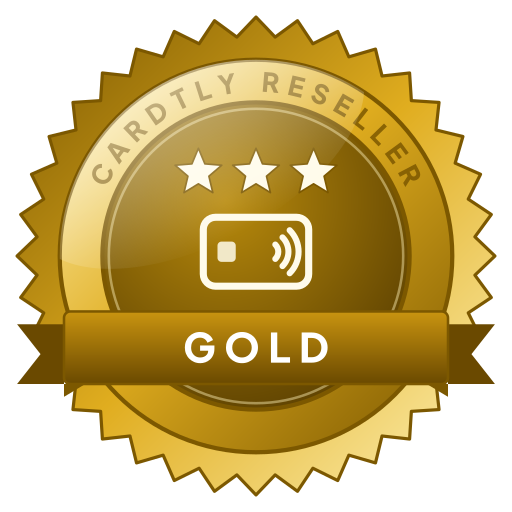
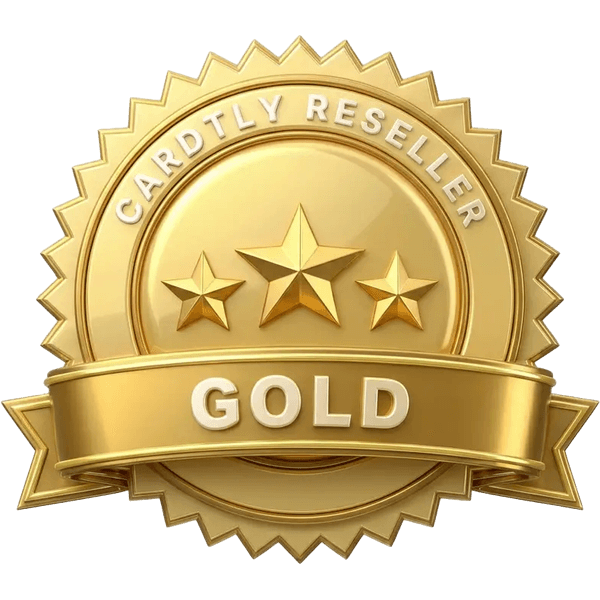
Resellers: Andre's badge artwork
The five level badges are now Andre's artwork in place of the drawn SVG
medals. The originals are kept in design/reseller-badges/<level>.webp.

- scripts/make-reseller-badges.mjs crops each to the medal, centres it on a
  square transparent canvas, and writes public/badges/reseller-<level>.png
  (600px, palette PNG about 125 KB, for emails and the download) and
  reseller-<level>-256.webp (for the screens).
- LevelBadge shows the WebP; locked levels stay greyed. The emails and the
  "Download your badge" button use the PNG, at the same addresses as before.
- lib/reseller-badge is now just the two paths; the SVG drawing and its
  manifest are gone.
- check-reseller-levels reads the file headers: artwork present, PNG and
  WebP square with transparency, LevelBadge showing the artwork.

diff --git a/lib/reseller-badge.ts b/lib/reseller-badge.ts
@@ -1,169 +1,22 @@
-// The reseller level badge (Andre, 2026-11-16: "create nice badges so they
-// know their level"). One drawing, used three ways:
-//   - inline on the Reseller page, the public listing and admin
-//     (components/reseller/ResellerLevelCard, LevelBadge);
-//   - as PNG files in public/badges, for the emails (mail clients drop SVG)
-//     and for resellers to download and show on their own website. Made by
-//     scripts/make-reseller-badges.mjs; check-reseller-levels fails the build
-//     when the drawing changes and the PNGs were not made again.
+// The reseller level badges: Andre's artwork (2026-11-19, "please use these
+// badges"), kept in design/reseller-badges/<level>.webp and made into the
+// served files by scripts/make-reseller-badges.mjs:
 //
-// A medal: a notched metal rim, a polished ring with CARDTLY RESELLER around
-// the top, a darker face with one star per level (Bronze one, Platinum four)
-// over a digital card, and a ribbon with the level's name. Small sizes drop
-// the lettering and the ribbon, which would only be noise.
+//   /badges/reseller-<level>.png       600 x 600, for the emails (mail
+//                                       clients want PNG) and the download
+//   /badges/reseller-<level>-256.webp  256 x 256, for the screens
 //
-// Pure: returns SVG markup. Relative import so the scripts can compile it.
+// Both are square with a transparent background, the medal centred.
+// check-reseller-levels fails the build if any is missing or not square.
 
-import { levelByKey, type LevelKey } from './reseller-levels'
+import type { LevelKey } from './reseller-levels'
 
-interface Metal {
-  light: string; mid: string; dark: string
-  faceLight: string; faceDark: string
-  ribbonLight: string; ribbonDark: string
-  ink: string
-  stars: number
-}
-
-export const BADGE_METALS: Record<LevelKey, Metal> = {
-  starter: {
-    light: '#dff3ea', mid: '#8db8a5', dark: '#3d5e50',
-    faceLight: '#5c8574', faceDark: '#22372e', ribbonLight: '#5c8574', ribbonDark: '#2c473b', ink: '#f4fffa', stars: 0,
-  },
-  bronze: {
-    light: '#ffd9b5', mid: '#c47f45', dark: '#6e3a14',
-    faceLight: '#9a5a2a', faceDark: '#45200a', ribbonLight: '#a85f2a', ribbonDark: '#5c2e0e', ink: '#fff1e4', stars: 1,
-  },
-  silver: {
-    light: '#ffffff', mid: '#b8c0c8', dark: '#5f6873',
-    faceLight: '#8b949e', faceDark: '#3a4149', ribbonLight: '#8a949f', ribbonDark: '#454d56', ink: '#ffffff', stars: 2,
-  },
-  gold: {
-    light: '#fff3b8', mid: '#e0ad1f', dark: '#7c5800',
-    faceLight: '#b88a0c', faceDark: '#553b00', ribbonLight: '#c99410', ribbonDark: '#6a4900', ink: '#fffbea', stars: 3,
-  },
-  platinum: {
-    light: '#f2fcff', mid: '#a9dcef', dark: '#3b7891',
-    faceLight: '#5aa3bf', faceDark: '#1c4a5d', ribbonLight: '#4f9bb8', ribbonDark: '#1f5266', ink: '#ffffff', stars: 4,
-  },
-}
-
-const C = 120 // the centre of the 240 by 240 drawing
-const r2 = (n: number) => Math.round(n * 100) / 100
-
-function rosette(points: number, outer: number, inner: number): string {
-  const out: string[] = []
-  for (let i = 0; i < points * 2; i++) {
-    const a = (Math.PI * i) / points - Math.PI / 2
-    const r = i % 2 === 0 ? outer : inner
-    out.push(`${r2(C + r * Math.cos(a))},${r2(C + r * Math.sin(a))}`)
-  }
-  return out.join(' ')
-}
-
-function star(cx: number, cy: number, outer: number, inner: number): string {
-  const out: string[] = []
-  for (let i = 0; i < 10; i++) {
-    const a = (Math.PI * i) / 5 - Math.PI / 2
-    const r = i % 2 === 0 ? outer : inner
-    out.push(`${r2(cx + r * Math.cos(a))},${r2(cy + r * Math.sin(a))}`)
-  }
-  return out.join(' ')
-}
-
-function stars(n: number, cy: number, size: number, gap: number, m: Metal): string {
-  if (!n) return ''
-  const start = C - ((n - 1) * gap) / 2
-  return Array.from({ length: n }, (_, i) =>
-    `<polygon points="${star(start + i * gap, cy, size, size * 0.45)}" fill="${m.ink}" stroke="${m.dark}" stroke-width="0.8" stroke-linejoin="round"/>`).join('')
-}
-
-/** A digital card with the contactless waves on it. */
-function cardGlyph(cx: number, cy: number, scale: number, m: Metal): string {
-  const w = 52 * scale, h = 34 * scale
-  const x = cx - w / 2, y = cy - h / 2
-  const wave = (r: number) => {
-    const a = Math.PI / 4
-    const ox = cx + 6 * scale
-    return `<path d="M${r2(ox + r * Math.cos(-a))},${r2(cy + r * Math.sin(-a))} A${r2(r)},${r2(r)} 0 0 1 ${r2(ox + r * Math.cos(a))},${r2(cy + r * Math.sin(a))}" fill="none" stroke="${m.ink}" stroke-width="${r2(3 * scale)}" stroke-linecap="round"/>`
-  }
-  return `<rect x="${r2(x)}" y="${r2(y)}" width="${r2(w)}" height="${r2(h)}" rx="${r2(6 * scale)}" fill="none" stroke="${m.ink}" stroke-width="${r2(3.5 * scale)}"/>`
-    + `<rect x="${r2(x + 7 * scale)}" y="${r2(cy - 5 * scale)}" width="${r2(9 * scale)}" height="${r2(10 * scale)}" rx="${r2(2 * scale)}" fill="${m.ink}" opacity="0.85"/>`
-    + wave(5 * scale) + wave(10 * scale) + wave(15 * scale)
-}
-
-// Rough widths of bold capitals, in ems. Close enough to space letters evenly.
-const EM: Record<string, number> = { ' ': 0.34, A: 0.74, C: 0.72, D: 0.76, E: 0.62, L: 0.58, R: 0.7, S: 0.66, T: 0.64, Y: 0.68 }
-
-/**
- * Text around the top of the ring, centred, one letter at a time. Not a
- * textPath: the renderer that makes the PNGs (librsvg) does not draw those,
- * and this looks the same in browsers and in the PNGs.
- */
-function arcLetters(text: string, radius: number, size: number, spacing: number): string {
-  const widths = [...text].map(ch => (EM[ch] ?? 0.7) * size + spacing)
-  const total = widths.reduce((a, b) => a + b, 0) - spacing
-  let at = -total / 2
-  return [...text].map((ch, i) => {
-    const mid = at + (widths[i] - spacing) / 2
-    at += widths[i]
-    if (ch === ' ') return ''
-    const a = mid / radius - Math.PI / 2
-    const x = r2(C + radius * Math.cos(a)), y = r2(C + radius * Math.sin(a))
-    return `<text x="${x}" y="${y}" text-anchor="middle" transform="rotate(${r2((a * 180) / Math.PI + 90)} ${x} ${y})">${ch}</text>`
-  }).join('')
-}
-
-export interface BadgeOptions {
-  /** Makes the gradient ids unique when several badges share a page. */
-  id?: string
-  /** No lettering and no ribbon: for anything shown smaller than 64px. */
-  compact?: boolean
-}
-
-/** The badge as SVG markup, 240 by 240, transparent around the medal. */
-export function badgeSvg(key: LevelKey, opts: BadgeOptions = {}): string {
-  const m = BADGE_METALS[key] || BADGE_METALS.starter
-  const s = String(opts.id || key).replace(/[^a-zA-Z0-9_-]/g, '')
-  const name = levelByKey(key).name.toUpperCase()
-  const compact = !!opts.compact
-  const font = `font-family="'Plus Jakarta Sans','Segoe UI',Arial,sans-serif" font-weight="800"`
-
-  const defs = `<defs>
-<linearGradient id="m${s}" x1="0" y1="0" x2="1" y2="1"><stop offset="0" stop-color="${m.light}"/><stop offset="0.45" stop-color="${m.mid}"/><stop offset="1" stop-color="${m.dark}"/></linearGradient>
-<linearGradient id="e${s}" x1="1" y1="1" x2="0" y2="0"><stop offset="0" stop-color="${m.light}"/><stop offset="0.5" stop-color="${m.mid}"/><stop offset="1" stop-color="${m.dark}"/></linearGradient>
-<radialGradient id="f${s}" cx="0.4" cy="0.32" r="0.8"><stop offset="0" stop-color="${m.faceLight}"/><stop offset="1" stop-color="${m.faceDark}"/></radialGradient>
-<linearGradient id="b${s}" x1="0" y1="0" x2="0" y2="1"><stop offset="0" stop-color="${m.ribbonLight}"/><stop offset="1" stop-color="${m.ribbonDark}"/></linearGradient>
-<linearGradient id="g${s}" x1="0" y1="0" x2="0" y2="1"><stop offset="0" stop-color="#ffffff" stop-opacity="0.55"/><stop offset="1" stop-color="#ffffff" stop-opacity="0"/></linearGradient>
-<clipPath id="k${s}"><circle cx="${C}" cy="${C}" r="92"/></clipPath>
-</defs>`
-
-  const medal = `<polygon points="${rosette(36, 112, 103)}" fill="url(#e${s})" stroke="${m.dark}" stroke-width="1.5" stroke-linejoin="round"/>`
-    + `<circle cx="${C}" cy="${C}" r="92" fill="url(#m${s})" stroke="${m.dark}" stroke-width="2"/>`
-    + `<circle cx="${C}" cy="${C}" r="72" fill="url(#f${s})" stroke="${m.dark}" stroke-width="2"/>`
-    + `<circle cx="${C}" cy="${C}" r="69" fill="none" stroke="${m.light}" stroke-opacity="0.45" stroke-width="1.2"/>`
-
-  const gloss = `<g clip-path="url(#k${s})"><ellipse cx="92" cy="70" rx="86" ry="44" transform="rotate(-28 92 70)" fill="url(#g${s})"/></g>`
-
-  if (compact) {
-    // Stars big enough to count at a glance; Starter, with none, shows the card.
-    const face = m.stars
-      ? stars(m.stars, C, m.stars > 2 ? 15 : 20, m.stars > 2 ? 30 : 40, m)
-      : cardGlyph(C, C, 1.2, m)
-    return `<svg xmlns="http://www.w3.org/2000/svg" viewBox="0 0 240 240" aria-hidden="true">${defs}${medal}${face}${gloss}</svg>`
-  }
-
-  const lettering = `<g ${font} font-size="12.5" fill="${m.dark}" opacity="0.85">${arcLetters('CARDTLY RESELLER', 77, 12.5, 3.2)}</g>`
-  const face = stars(m.stars, 81, 11.5, 27, m) + cardGlyph(C, m.stars ? 118 : 108, 0.95, m)
-  const ribbon = `<path d="M30,152 L8,152 L19,166 L8,180 L30,180 Z" fill="${m.ribbonDark}"/>`
-    + `<path d="M210,152 L232,152 L221,166 L232,180 L210,180 Z" fill="${m.ribbonDark}"/>`
-    + `<path d="M30,180 L30,186 L40,180 Z M210,180 L210,186 L200,180 Z" fill="${m.dark}"/>`
-    + `<rect x="30" y="146" width="180" height="34" rx="3" fill="url(#b${s})" stroke="${m.dark}" stroke-width="1.2"/>`
-    + `<text x="${C}" y="170" text-anchor="middle" ${font} font-size="19" letter-spacing="4" fill="#ffffff">${name}</text>`
-
-  return `<svg xmlns="http://www.w3.org/2000/svg" viewBox="0 0 240 240" aria-hidden="true">${defs}${medal}${lettering}${face}${gloss}${ribbon}</svg>`
-}
-
-/** Where the PNG of a badge is served from (public/badges). */
+/** The PNG: emails and "Download your badge". */
 export function badgePngPath(key: LevelKey): string {
   return `/badges/reseller-${key}.png`
+}
+
+/** The small WebP: everywhere a badge is shown on screen. */
+export function badgeWebpPath(key: LevelKey): string {
+  return `/badges/reseller-${key}-256.webp`
 }

diff --git a/components/reseller/ResellerLevelCard.tsx b/components/reseller/ResellerLevelCard.tsx
@@ -1,32 +1,31 @@
 'use client'
 
-import { useId, useState } from 'react'
+import { useState } from 'react'
 import { Check, ChevronDown, ChevronUp, Download, Lock } from 'lucide-react'
 import { RESELLER_LEVELS, levelByKey, levelProgress, levelRank, progressLine, type LevelKey } from '@/lib/reseller-levels'
-import { badgePngPath, badgeSvg } from '@/lib/reseller-badge'
+import { badgePngPath, badgeWebpPath } from '@/lib/reseller-badge'
 
 // The reseller's level on their own page: their badge, how far to the next
 // level, what every level unlocks, and the badge to download. Rules in
-// lib/reseller-levels, the badge drawing in lib/reseller-badge.
+// lib/reseller-levels, the badge files in lib/reseller-badge.
 
-const SIZES = { sm: 28, md: 52, lg: 128 } as const
+const SIZES = { sm: 28, md: 56, lg: 136 } as const
 
 /**
- * The level badge (lib/reseller-badge). Below 64px it is drawn without the
- * lettering and ribbon, which would only be noise at that size. `locked`
- * greys it out, for a level not reached yet.
+ * The level badge: Andre's artwork (lib/reseller-badge). `locked` greys it
+ * out, for a level not reached yet.
  */
 export function LevelBadge({ levelKey, size = 'md', locked = false }: {
   levelKey: LevelKey; size?: keyof typeof SIZES | number; locked?: boolean
 }) {
   const px = typeof size === 'number' ? size : SIZES[size]
-  const id = useId()
   const level = levelByKey(levelKey)
   return (
-    <span role="img" aria-label={`${level.name} reseller badge${locked ? ', not reached yet' : ''}`}
-      className="inline-block flex-shrink-0 [&>svg]:w-full [&>svg]:h-full"
-      style={{ width: px, height: px, filter: locked ? 'grayscale(1)' : undefined, opacity: locked ? 0.45 : 1 }}
-      dangerouslySetInnerHTML={{ __html: badgeSvg(level.key, { id: `${level.key}${id}`, compact: px < 64 }) }} />
+    // eslint-disable-next-line @next/next/no-img-element
+    <img src={badgeWebpPath(level.key)} width={px} height={px} loading="lazy" decoding="async"
+      alt={`${level.name} reseller badge${locked ? ', not reached yet' : ''}`}
+      className="inline-block flex-shrink-0 select-none"
+      style={{ width: px, height: px, filter: locked ? 'grayscale(1)' : undefined, opacity: locked ? 0.45 : 1 }} />
   )
 }
 
